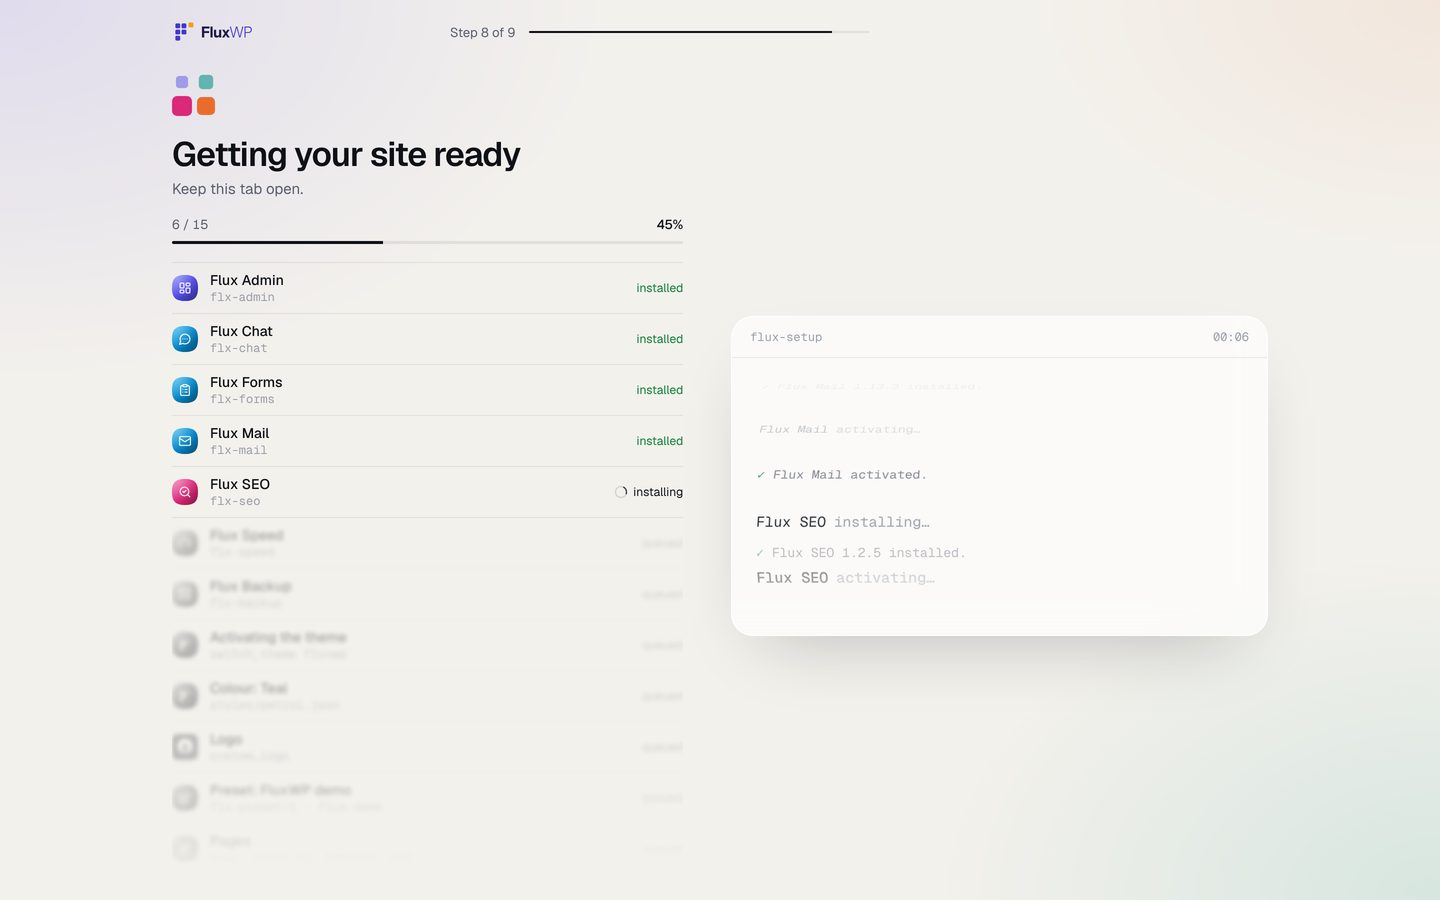
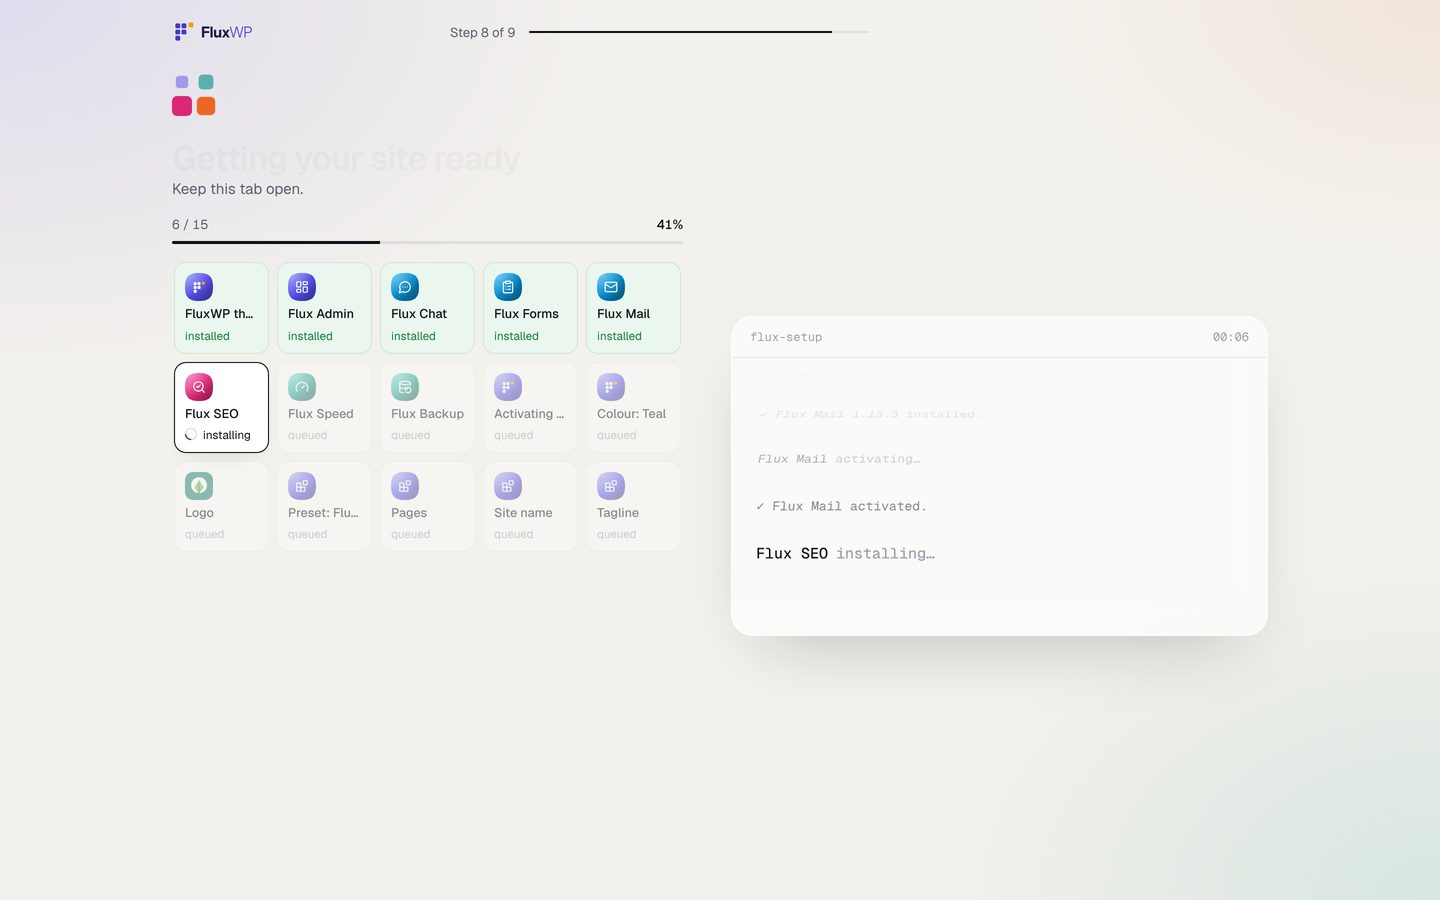
flx-setup: install queue as compact tiles, installed ones tinted green

diff --git a/plugins/flx-setup/assets/onboarding/onboarding.css b/plugins/flx-setup/assets/onboarding/onboarding.css
@@ -461,3 +461,19 @@ section.step.on{display:flex}
 .grid.cat .card{aspect-ratio:1/1;min-height:0}
 .grid.cat .card p{-webkit-line-clamp:2}
 @media (max-width:900px),(max-height:560px){.grid.cat{grid-template-columns:minmax(0,1fr)}.grid.cat .card{aspect-ratio:auto}}
+
+/* kurulum sırası: yan yana küçük kartlar; kurulanlar açık yeşil */
+.queue{display:grid;grid-template-columns:repeat(auto-fill,minmax(122px,1fr));grid-auto-rows:min-content;gap:8px;align-content:start;-webkit-mask-image:none;overflow:auto;padding:2px}
+.queue li{flex-direction:column;align-items:flex-start;gap:6px;padding:12px;border:1px solid var(--line);border-radius:12px;background:var(--surface);min-width:0;transition:background .4s,border-color .4s,opacity .4s}
+.queue li img{width:28px;height:28px;border-radius:8px}
+.queue .n{flex:none;width:100%;font-size:13px;line-height:1.3;white-space:nowrap;overflow:hidden;text-overflow:ellipsis}
+.queue .n small{font-size:10.5px;white-space:nowrap;overflow:hidden;text-overflow:ellipsis}
+.queue .st{font-size:11.5px}
+.queue li.wait{filter:none;opacity:.45}
+.queue li.now{border-color:var(--ink);background:var(--surface-solid,#fff);box-shadow:var(--shadow)}
+.queue li.ok{background:#EAF6EE;border-color:#CFE8D7}
+.queue li.fail{background:#FDF0EE;border-color:#F4CFC9}
+.queue{grid-template-columns:repeat(auto-fill,minmax(88px,1fr))}
+.queue li{padding:10px;gap:5px}
+.queue .n small{display:none}
+.queue .n{font-size:12.5px}

diff --git a/plugins/flx-setup/CHANGELOG.md b/plugins/flx-setup/CHANGELOG.md
@@ -5,7 +5,7 @@
 - Eklentiler kategorilere ayrıldı (Yönetim, İletişim, Büyüme, Yapay zekâ, Sistem); her kategori ayrı ekran, kare kartlar, tam açıklama. Filtre `flxk_onboarding_groups`; `flxk_onboarding_core` artık kart listesi alır.
 - Görünüm adımı sekmeli: Kimlik (site adı, slogan, logo yükleme), Ön ayar, Renk (her stil küçük site önizlemesiyle), Sayfalar (Blog, Hakkımızda, İletişim, SSS; filtre `flxk_onboarding_pages`). Sağdaki önizleme sabit; logo, menü, bağış/ürün kartları ve blog bölümü seçime göre değişir. Devam ve Geri önce sekmeler arasında gezer.
 - Kurulumda logo temanın logosu ve site simgesi olur, seçilen sayfalar açılır (Blog yazılar sayfası olur), slogan kaydedilir.
-- Kurulum ekranı: "Siteniz sizin için hazırlanıyor" başlığı görünür; koyu konsol yerine açık renkli, yarı boy dönen çark ve sade satırlar.
+- Kurulum ekranı: "Siteniz sizin için hazırlanıyor" başlığı görünür; koyu konsol yerine açık renkli, yarı boy dönen çark ve sade satırlar. Kurulum sırası yan yana küçük kartlar; kurulanlar açık yeşil.
 - Atla penceresi artık tam opak.
 ## 1.0.0
 - Flux Updater ile birleşti: tek eklenti **Flux Setup** (slug `flx-setup`). Paket listesi, güncellemeler, sürüm değiştirme, güncelleme öncesi yedek ve geri alma Flux Updater 1.7.2'den aynen geldi; sınıflar `FLXU_*`, ayarlar `flxu_*` aynı kaldı.
